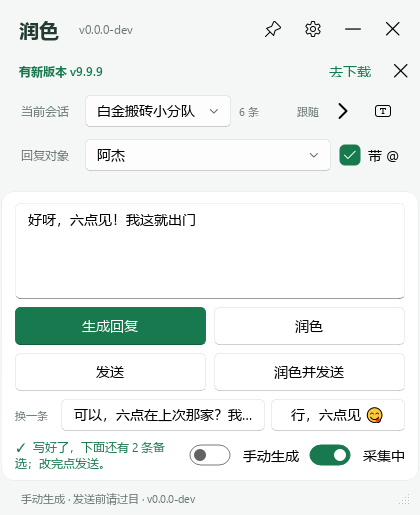
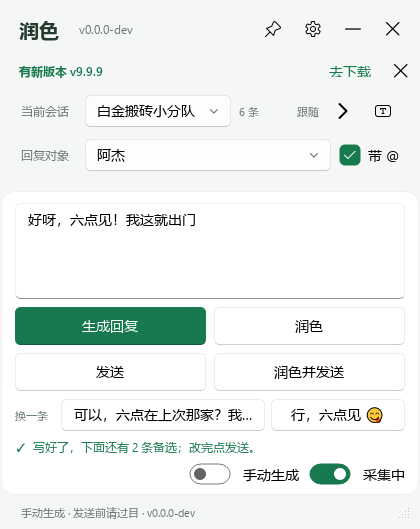
fix(ui): 解决输入区布局和窗口高度计算问题
- 添加 _width 属性记录上次排布用的宽度，避免宽度变化时内容高度计算错误
- 在 _relayout 方法中检测宽度变化并重新计算高度，防止输入框和按钮重叠
- 实现 _composer_height 方法使用 heightForWidth 计算准确的输入区高度
- 添加 _settle_layouts 方法确保布局在测量前完成激活，避免尺寸计算延迟
- 实现 _grow_later 方法在下一事件循环中复核窗口高度，修正可能的高度不足
- 重构输入区布局结构，将状态文字和开关分别独立成行，避免挤压问题
- 更新 README 中关于采集开关位置

diff --git a/app/overlay.py b/app/overlay.py
@@ -199,6 +199,7 @@ class Overlay:
         self._busy = False
         self._undo = None       # 上一次被覆盖掉的内容，「还原」用
         self._compact = None    # 断点模式：None 保证 _relayout 第一次调用必定生效
+        self._width = None      # 上次排布用的宽度：宽度一变内容高就得重算（状态文字会换行）
         self._pageLayouts = []
         self._scrollPages = []  # 每个滚动页（首页 / 单个好友设置 / 设置），算窗口高度时要用
         self._hintLabels = []
@@ -339,11 +340,17 @@ class Overlay:
     def _relayout(self, w, h):
         """宽度跨过断点才重新摆布局（省事）；高度只在用户自己拉过时记一笔。"""
         compact = w < 400
+        width_changed = w != self._width
+        self._width = w  # 先记下：下面 _apply_height 自己那次 resize 会绕回这里，别再重算一遍
         if compact != self._compact:
             self._compact = compact
             self._apply_compact(compact)
             if not self._details_open:
                 self._apply_height()  # 紧凑模式的页边距小一点，收着的时候顺手把窗口也收回去
+        elif width_changed and not self._details_open:
+            # 同一个档位里宽度也变了（用户拖的）：状态文字换几行、按钮上的字会不会截断都跟着变，
+            # 内容高就变了。不重算窗口就矮一截，输入框和按钮当场摞一起（用户截图那个）。
+            self._apply_height()
         # 只有首页那个高才算「铺开时的高度」；设置页、窄成一个条的那种都不算
         if (self.pages.currentWidget() is self.home and self._details_open
                 and h > self._fit_height()):
@@ -371,6 +378,20 @@ class Overlay:
         screen = QGuiApplication.screenAt(self.win.frameGeometry().center()) or self.app.primaryScreen()
         return screen.availableGeometry()
 
+    def _composer_height(self):
+        """输入区该占多高。
+
+        状态行会换行，它的 sizeHint 是照**上一次那个宽度**量出来的：窗口宽度一变（用户拖的），
+        这个数就偏——偏小窗口就矮一截、输入框和按钮当场摞一起；偏大就白留一块空。
+        heightForWidth 是按现在的宽度现算的，布局认这个数时就以它为准，再拿控件自己的最小高兜底，
+        绝不比它矮。
+        """
+        layout = self.composer.layout()
+        height = self.composer.sizeHint().height()
+        if layout.hasHeightForWidth():
+            height = layout.totalHeightForWidth(self.composer.width())
+        return max(height, self.composer.minimumSizeHint().height())
+
     def _fit_height(self):
         """把看得见的那几块高度加起来：窗口高度就照这个来，不留一大片空白。
 
@@ -382,7 +403,7 @@ class Overlay:
         if not self.updateBar.isHidden():
             height += self.updateBar.height()
         page = max(self.pages.minimumSizeHint().height(), self.home.widget().sizeHint().height())
-        composer = max(self.composer.sizeHint().height(), self.composer.minimumSizeHint().height())
+        composer = self._composer_height()
         margins = self.win.layout().contentsMargins()
         return height + page + composer + margins.top() + margins.bottom()
 
@@ -391,19 +412,59 @@ class Overlay:
         height = self._fit_height()
         return max(self._expanded_h or height, height) if self._details_open else height
 
+    def _settle_layouts(self):
+        """量高度之前先让排布算一遍（activate），顺手把会换行的状态行按现在的宽度钉准。
+
+        刚换过显隐（进度条、备选那一行）或文字（状态行）的那一帧，Qt 还在排队等一次重排，
+        这时候量到的 sizeHint 还是上一版的，窗口就矮一截。输入框和四个按钮都是定高，矮出来的那点
+        只能从它们身上挤——当场摞在一起，就是用户截图那个「输入框和按钮挨一起」。
+        activate() 把等待中的那次重排立刻结掉，量到的才是这一帧的真数。
+
+        状态行还多一层坑：QLabel 报的 sizeHint 是**按上一次那个宽度**算出来缓存着的，宽度一变
+        （用户拖窗口）这个数就偏小，外面照着它摆窗口又矮一截。heightForWidth 是按现在的宽度现算的，
+        把它顶成最小高，布局问 sizeHint 时就会被 minimumSize 兜到这个真数上；下次变矮也会跟着改。
+        """
+        self.win.layout().activate()
+        self.composer.layout().activate()
+        needed = self.status.heightForWidth(self.status.width()) if self.status.width() > 0 else 0
+        if needed > 0 and needed != self.status.minimumHeight():
+            self.status.setMinimumHeight(needed)
+
     def _apply_height(self):
         """按当前状态把窗口高度收放一次：收着矮、铺开高，全都是内容说了算。
         设置页是长表单、有自己的滚动条，别拿它的高度去撑窗口。
 
         内容一变（出备选、进度条出来、状态文字换行、群聊多一行回复对象、展开详情、更新提示）就得再调一次，
-        不然窗口停在旧高度、里面被挤成一团。
+        不然窗口停在旧高度、里面被挤成一团。量之前先 `_settle_layouts()`，别拿上一帧的数当准；
+        万一这一帧 Qt 还是没算对，`_grow_later()` 会在下一拍补回来。
         """
         if self.pages.currentWidget() is not self.home:
             return
+        self._settle_layouts()
         height = self._desired_height()
         self.win.setMinimumHeight(height)  # 下限一起顶到内容高：拿尺寸手柄也拉不出「控件摞一起」那种状态
         self.win.resize(self.win.width(), min(height, self._work_area().height()))
         self._realign()  # 高度变了下沿就不在聊天窗口那条线上了，重贴一次
+        QTimer.singleShot(0, self._grow_later)  # 下一拍复核一次，见那个方法
+
+    def _grow_later(self):
+        """下一拍复核：不够高就补上。
+
+        控件报的 sizeHint / heightForWidth 有时要等一次事件循环才改过来（状态文字刚换行、备选行
+        刚做出来那几个按钮都是这样），当帧量到的高度就可能少一行。少的那点全从输入框和四个定高按钮
+        身上挤——用户截图那个「摞在一起」，而且窗口下限已经被顶死在那儿，不会自己好。
+
+        这一拍只**长高**、也不再排自己：量出来一样或比现在矮就什么都不做，所以不会跟 `_apply_height`
+        来回弹。真长不到目标高（窗口管理器不给）也只会试这一次，不会转圈。
+        """
+        if self.pages.currentWidget() is not self.home:
+            return
+        desired = self._desired_height()
+        wanted = min(desired, self._work_area().height())
+        if wanted > self.win.height():
+            self.win.setMinimumHeight(desired)  # 下限跟着一起顶上去，免得下次又被夹回来
+            self.win.resize(self.win.width(), wanted)
+            self._realign()
 
     def _realign(self):
         """吸附着的时候按记下来的聊天窗口矩形重贴一次（「没动就不折腾」那条会挡住，先清掉）。"""
@@ -485,12 +546,15 @@ class Overlay:
         body.addStretch(1)
 
     def _build_composer(self):
-        """底部常驻的输入区：输入框 + 生成回复 / 润色 / 发送 / 润色并发送 + 备选 + 状态行。
+        """底部常驻的输入区：输入框 + 生成回复 / 润色 / 发送 / 润色并发送 + 备选 + 状态文字 + 两个开关。
         放在滚动页外面，窗口再矮也够得着这几个按钮。
 
         按钮排成两行：第一行「生成回复 + 润色」= 让 AI 写点什么；第二行「发送 + 润色并发送」
         = 把它发出去，区别只在发之前改不改。四个按钮挤一行在 420 宽的默认窗口里就只剩不到 80px 一个，
-        「润色并发送」会在按钮上被截掉。"""
+        「润色并发送」会在按钮上被截掉。
+
+        最下面两块（状态文字、两个开关）各占一整行：状态文字常是两三行，跟开关挤一行时它一长
+        就把那一行顶高、上面的备选行跟着被挤瘪。开关自己一行靠右，状态文字写多长都不动它们。"""
         self.composer = _Surface()
         box = QVBoxLayout(self.composer)
         box.setContentsMargins(14, 12, 14, 10)
@@ -537,10 +601,14 @@ class Overlay:
         self.altLayout = alt_row
         self.altRow.hide()
         box.addWidget(self.altRow)
-        status_row = QHBoxLayout()  # 状态行：左边一句状态，右边两个开关（标题栏只放标题，别挤它）
+        status_row = QHBoxLayout()  # 状态行自己占一整行：它常有两三行字，别跟开关挤在一行里
         status_row.setSpacing(8)
         self.status = _label("", 12, _MUTED)
         status_row.addWidget(self.status, 1)
+        box.addLayout(status_row)
+        switch_row = QHBoxLayout()  # 两个开关单独一行，靠右；状态文字多长都不动它们
+        switch_row.setSpacing(8)
+        switch_row.addStretch(1)
         self.autoSwitch = SwitchButton(self.composer)
         self.autoSwitch.setOnText("自动生成")
         self.autoSwitch.setOffText("手动生成")
@@ -549,7 +617,7 @@ class Overlay:
             "开：对方一发新消息就自动起草一版，只填进输入框、不会自动发送（发送永远要你自己按）")
         self.autoSwitch.setAccessibleName("自动生成回复")
         self.autoSwitch.checkedChanged.connect(self._auto_toggled)
-        status_row.addWidget(self.autoSwitch)
+        switch_row.addWidget(self.autoSwitch)
         self.captureSwitch = SwitchButton(self.composer)
         self.captureSwitch.setOnText("采集中")
         self.captureSwitch.setOffText("已暂停")
@@ -557,8 +625,8 @@ class Overlay:
         self.captureSwitch.setAccessibleName("开启或暂停采集")
         self.captureSwitch.setChecked(True)
         self.captureSwitch.checkedChanged.connect(self._capture_toggled)
-        status_row.addWidget(self.captureSwitch)
-        box.addLayout(status_row)
+        switch_row.addWidget(self.captureSwitch)
+        box.addLayout(switch_row)
         self.progress = IndeterminateProgressBar()
         self.progress.setFixedHeight(3)
         self.progress.hide()
@@ -1347,6 +1415,11 @@ class Overlay:
             self.altLayout.addWidget(undo)
             self._altButtons.append(undo)
         self.altRow.setVisible(bool(self._altButtons))
+        # 备选行本来就没收起来的时候（第一次生成留下的「还原」，再生成一次换成新按钮），
+        # 新造的按钮这一帧还是「藏着」的：不 show 一下，下面量高度就把它整行算成 0，
+        # 窗口矮一行，输入框和按钮又摞一起。父控件藏着的场合 show 也无害，等它露头自然就看见了。
+        for button in self._altButtons:
+            button.show()
         self._apply_height()  # 备选那一行出来/收起来，窗口高矮跟着走
 
     def _swap(self, index):
